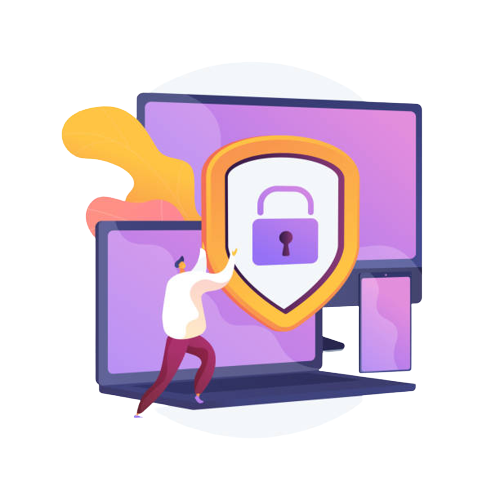
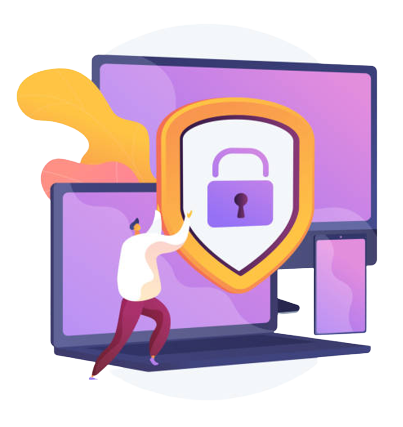
Improve styles of Screens

diff --git a/src/routes/MissingRoute/styles.scss b/src/routes/MissingRoute/styles.scss
@@ -1,0 +1,55 @@
+.missing-route {
+  @media only screen and (max-width: 425px) {
+    & img {
+      @apply min-w-[375px];
+    }
+  }
+
+  @media only screen and (max-width: 385px) {
+    & img {
+      // @apply h-[250px];
+    }
+  }
+
+  @media only screen and (max-width: 365px) {
+    & img {
+      // @apply h-[260px];
+    }
+  }
+
+  @media only screen and (max-width: 350px) {
+    & img {
+      @apply h-[240px] min-w-[335px];
+    }
+  }
+
+  @media only screen and (max-width: 330px) {
+    & img {
+      @apply h-[240px] min-w-[325px];
+    }
+  }
+
+  @media only screen and (max-width: 315px) {
+    & img {
+      @apply h-[240px] min-w-[315px];
+    }
+  }
+
+  @media only screen and (max-width: 300px) {
+    & img {
+      @apply h-[210px] min-w-[280px];
+    }
+  }
+
+  @media only screen and (max-width: 285px) {
+    & img {
+      @apply min-w-[260px];
+    }
+  }
+
+  @media only screen and (max-width: 260px) {
+    & img {
+      @apply h-[200px];
+    }
+  }
+}

diff --git a/src/routes/BlockedRoute/styles.scss b/src/routes/BlockedRoute/styles.scss
@@ -1,0 +1,37 @@
+.blocked-route {
+  @media only screen and (max-width: 360px) {
+    @apply mt-[17.75rem];
+
+    & img {
+      @apply absolute top-[5.5%] min-w-[330px];
+    }
+  }
+
+  @media only screen and (max-width: 335px) {
+    @apply mt-[16.5rem];
+
+    & img {
+      @apply h-[305px] min-w-[290px];
+    }
+  }
+
+  @media only screen and (max-width: 312px) {
+    @apply mt-[16.65rem];
+  }
+
+  @media only screen and (max-width: 300px) {
+    @apply mt-[15.35rem];
+
+    & img {
+      @apply min-w-[270px] top-[3%];
+    }
+  }
+
+  @media only screen and (max-width: 280px) {
+    @apply mt-0;
+
+    & img {
+      @apply relative h-[50vh] min-w-[initial];
+    }
+  }
+}

diff --git a/src/routes/BlockedRoute/constants.tsx b/src/routes/BlockedRoute/constants.tsx
@@ -17,7 +17,7 @@ export const DEFAULT_DESCRIPTION =
   'La ruta que intentas acceder, está protegida, por lo que no puede ser visualizada como debe ser. Te recomendamos que vuelvas al Inicio de sesión.'
 
 export const DEFAULT_CUSTOM_TITLE = {
-  className: 'mb-1 text-purple-700 dark:text-purple-300'
+  className: 'mt-3 text-purple-700 dark:text-purple-300'
 }
 
 export const DEFAULT_BUTTON: ButtonProps = {
@@ -32,5 +32,5 @@ export const DEFAULT_IMAGE: ImageProps = {
   height: 280,
   src: unauthorizedImage,
   alt: 'blocked-route-image',
-  className: 'h-[280px]'
+  className: 'h-[330px]'
 }

diff --git a/src/modules/Home/components/LatestAddedProducts/index.tsx b/src/modules/Home/components/LatestAddedProducts/index.tsx
@@ -39,18 +39,7 @@ export default function LatestAddedProducts() {
         isDisabledPreviousArrow={isDisabledPreviousArrow}
       />
 
-      {isError && <Error />}
-
-      {!isError && !isLoading && hasEmptyProducts && <EmptyLatestProducts />}
-
-      {(isLoading || (!isError && !hasEmptyProducts)) && (
-        <Products
-          products={products}
-          isLoading={isLoading}
-          hasScrollbar={hasScrollbar}
-          productItemsRef={productItemsRef}
-        />
-      )}
+      <EmptyLatestProducts />
     </section>
   )
 }

diff --git a/src/modules/Home/components/LatestAddedProducts/EmptyLatestProducts/constants.tsx b/src/modules/Home/components/LatestAddedProducts/EmptyLatestProducts/constants.tsx
@@ -11,7 +11,7 @@ export const DEFAULT_DESCRIPTION =
   'Hasta el momento, no se ha procedido a la incorporación de nuevos productos en nuestro catálogo; sin embargo, estamos trabajando diligentemente en ello para brindar a nuestros clientes una gran variedad de opciones que satisfagan sus necesidades y preferencias.'
 
 export const DEFAULT_CUSTOM_TITLE = {
-  className: 'text-rose-500 w-full sm:w-6/12 dark:text-pink-300'
+  className: 'text-rose-500 w-full dark:text-pink-300'
 }
 
 export const DEFAULT_IMAGE: ImageProps = {

diff --git a/src/modules/Home/components/LatestAddedProducts/hooks/useScrollOnArrows.ts b/src/modules/Home/components/LatestAddedProducts/hooks/useScrollOnArrows.ts
@@ -53,13 +53,11 @@ export default function useScrollOnArrows({
 
     // Scroll is at start position and disable previous arrow
     if (scrollLeft < 1 && isDisabledPreviousArrow === false) {
-      console.log('[ASASA]')
       setDisabledPreviousArrow(true)
     }
-    console.log({ scrollLeft, isDisabledPreviousArrow })
+
     // Scroll not is at start position and enable previous arrow
     if (scrollLeft >= 1 && isDisabledPreviousArrow) {
-      console.log('[ASASA23]')
       setDisabledPreviousArrow(false)
     }
 

diff --git a/src/routes/BlockedRoute/index.tsx b/src/routes/BlockedRoute/index.tsx
@@ -8,12 +8,12 @@ export default function BlockedRoute() {
   return (
     <Screen
       showButton
-      className="pb-[1.25rem]"
       image={constants.DEFAULT_IMAGE}
       title={constants.DEFAULT_TITLE}
       button={constants.DEFAULT_BUTTON}
       description={constants.DEFAULT_DESCRIPTION}
       customTitle={constants.DEFAULT_CUSTOM_TITLE}
+      className="pt-6 lg:pt-4 pb-[1.25rem] blocked-route"
     />
   )
 }

diff --git a/src/modules/Home/components/LatestAddedProducts/EmptyLatestProducts/index.tsx b/src/modules/Home/components/LatestAddedProducts/EmptyLatestProducts/index.tsx
@@ -7,11 +7,11 @@ import * as constants from './constants'
 export default function EmptyLatestProducts() {
   return (
     <Screen
-      className="pt-5 !pb-0 !bg-transparent"
       image={constants.DEFAULT_IMAGE}
       title={constants.DEFAULT_TITLE}
       description={constants.DEFAULT_DESCRIPTION}
       customTitle={constants.DEFAULT_CUSTOM_TITLE}
+      className="pt-5 !px-0 !pb-0 !bg-transparent"
     />
   )
 }

diff --git a/src/routes/MissingRoute/index.tsx b/src/routes/MissingRoute/index.tsx
@@ -11,12 +11,12 @@ export default function MissingRoute() {
   return (
     <Screen
       showButton
-      className="pb-[1.5rem]"
       image={constants.DEFAULT_IMAGE}
       title={constants.DEFAULT_TITLE}
       button={constants.DEFAULT_BUTTON}
       description={constants.DEFAULT_DESCRIPTION}
       customTitle={constants.DEFAULT_CUSTOM_TITLE}
+      className="!px-5 pb-[1.5rem] missing-route"
     />
   )
 }

diff --git a/src/components/Screen/index.tsx b/src/components/Screen/index.tsx
@@ -53,7 +53,7 @@ export default function Screen({
         {...customTitle}
         className={classnames([
           customTitle.className,
-          'font-poppins font-bold text-3xl text-center main-title max-w-[550px] leading-tight'
+          'mb-2 font-poppins font-bold text-3xl text-center main-title max-w-[550px] leading-tight'
         ])}
       >
         {title}

diff --git a/src/styles/global.scss b/src/styles/global.scss
@@ -50,6 +50,10 @@
 @import '@components/Header/MobileNavigation/FloatMenu/MenuContent/styles.scss';
 @import '@components/Header/MobileNavigation/FloatMenu/MenuContent/NavigationSearch/styles.scss';
 
+// Routes styles
+@import '@routes/BlockedRoute/styles.scss';
+@import '@routes/MissingRoute/styles.scss';
+
 @layer base {
   .hide-scrollbar {
     &::-webkit-scrollbar {

diff --git a/src/components/Screen/styles.scss b/src/components/Screen/styles.scss
@@ -3,11 +3,11 @@
 
   @media only screen and (max-width: 450px) {
     & img {
-      @apply min-w-[300px];
+      @apply min-w-[260px];
     }
 
     & .main-title {
-      @apply text-2xl;
+      @apply text-[1.65rem] leading-tight;
     }
 
     & .screen-description {
